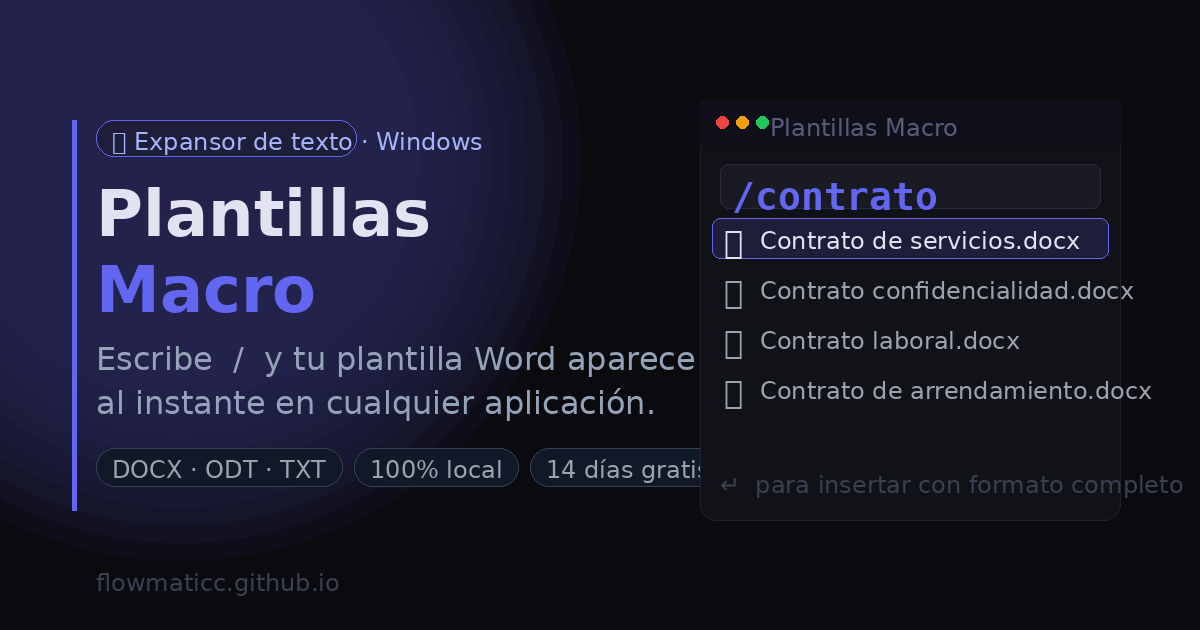
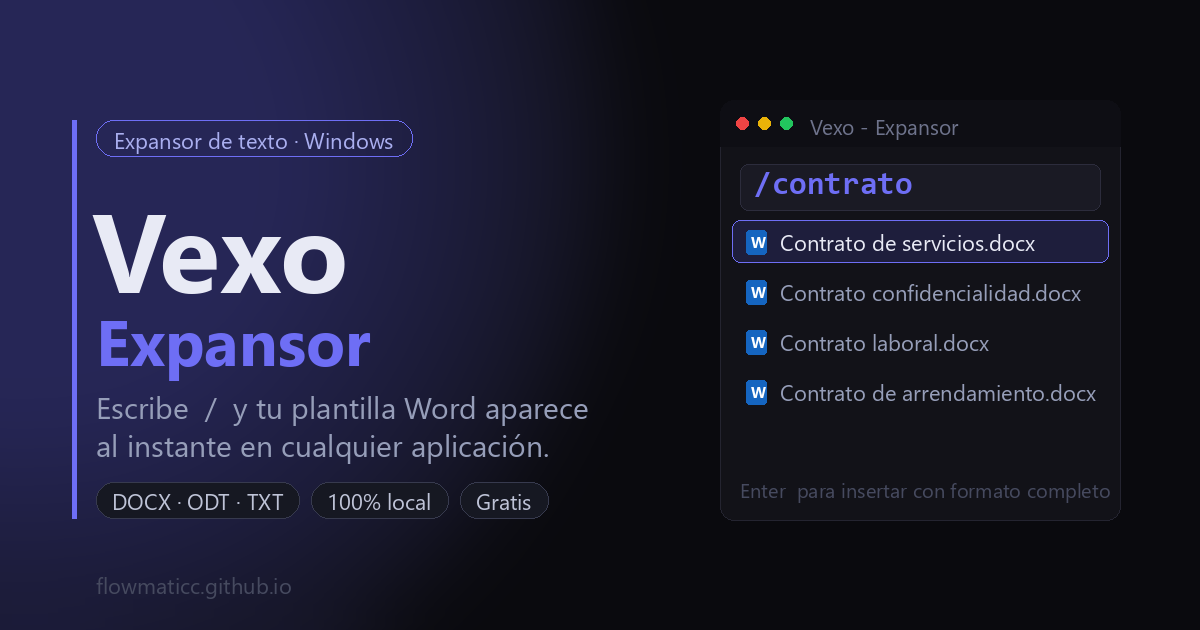
Web: imagen para compartir con Vexo, título del vídeo, carpeta img/vexo y restos del nombre anterior

diff --git a/de/utilities/extension/index.html b/de/utilities/extension/index.html
@@ -4,7 +4,7 @@ lang: de
 design: v2
 nav_active: utilities
 title: "Position Caret — Browser-Erweiterung · Flowmaticc"
-description: "Kostenlose Erweiterung für Chrome, Edge und Brave, die die Genauigkeit des Plantillas-Macro-Popups auf jeder Website verbessert. Mit einem Klick aus dem Chrome Web Store installieren."
+description: "Kostenlose Erweiterung für Chrome, Edge und Brave, die die Genauigkeit des Vexo-Popups auf jeder Website verbessert. Mit einem Klick aus dem Chrome Web Store installieren."
 canonical: "https://flowmaticc.github.io/de/utilities/extension/"
 ---
 {% include pages/extension-body.html %}

diff --git a/README.md b/README.md
@@ -47,7 +47,7 @@
 
 ## 📦 Versiones
 
-**Versión estable actual**: v3.0.0.19
+**Versión estable actual**: v3.0.0.21
 - Novedades: Visita nuestra [página de novedades](https://flowmaticc.github.io/novedades/)
 
 ## 🤝 Contribuciones y Soporte
